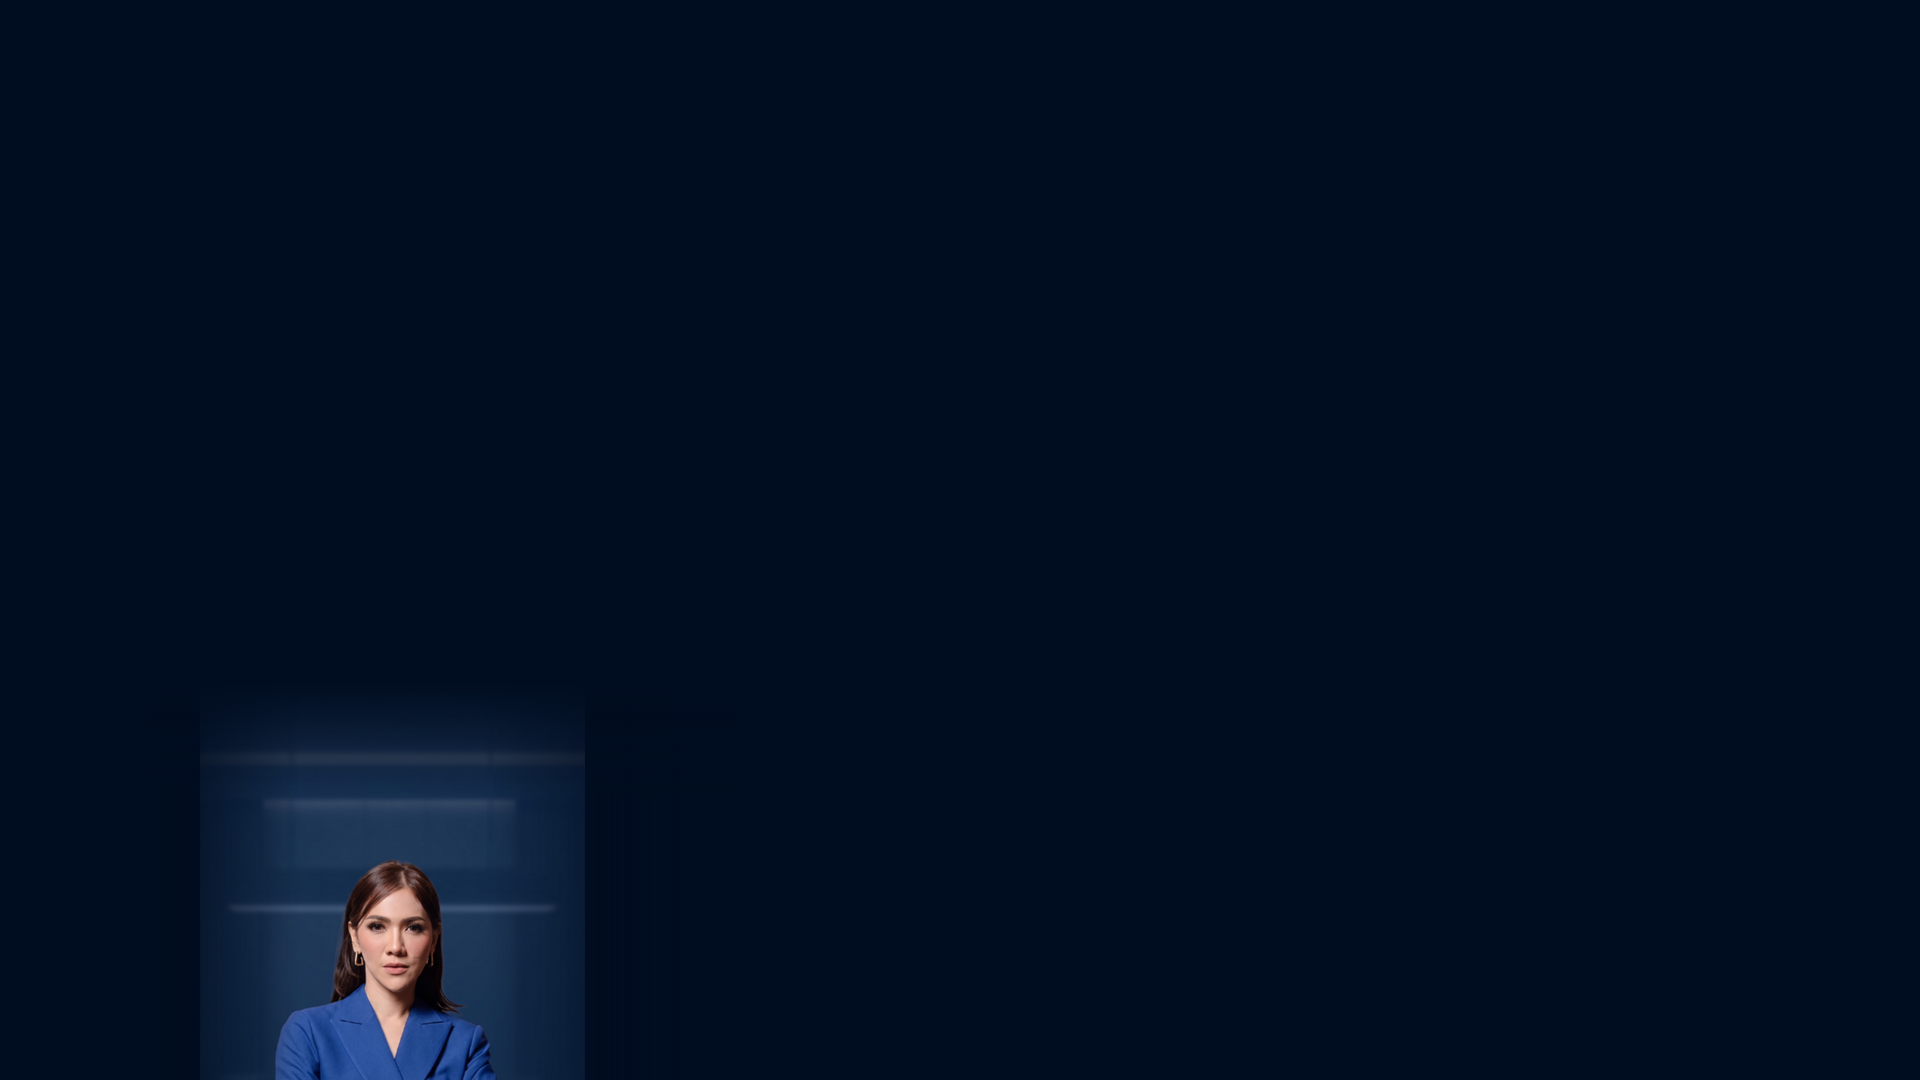
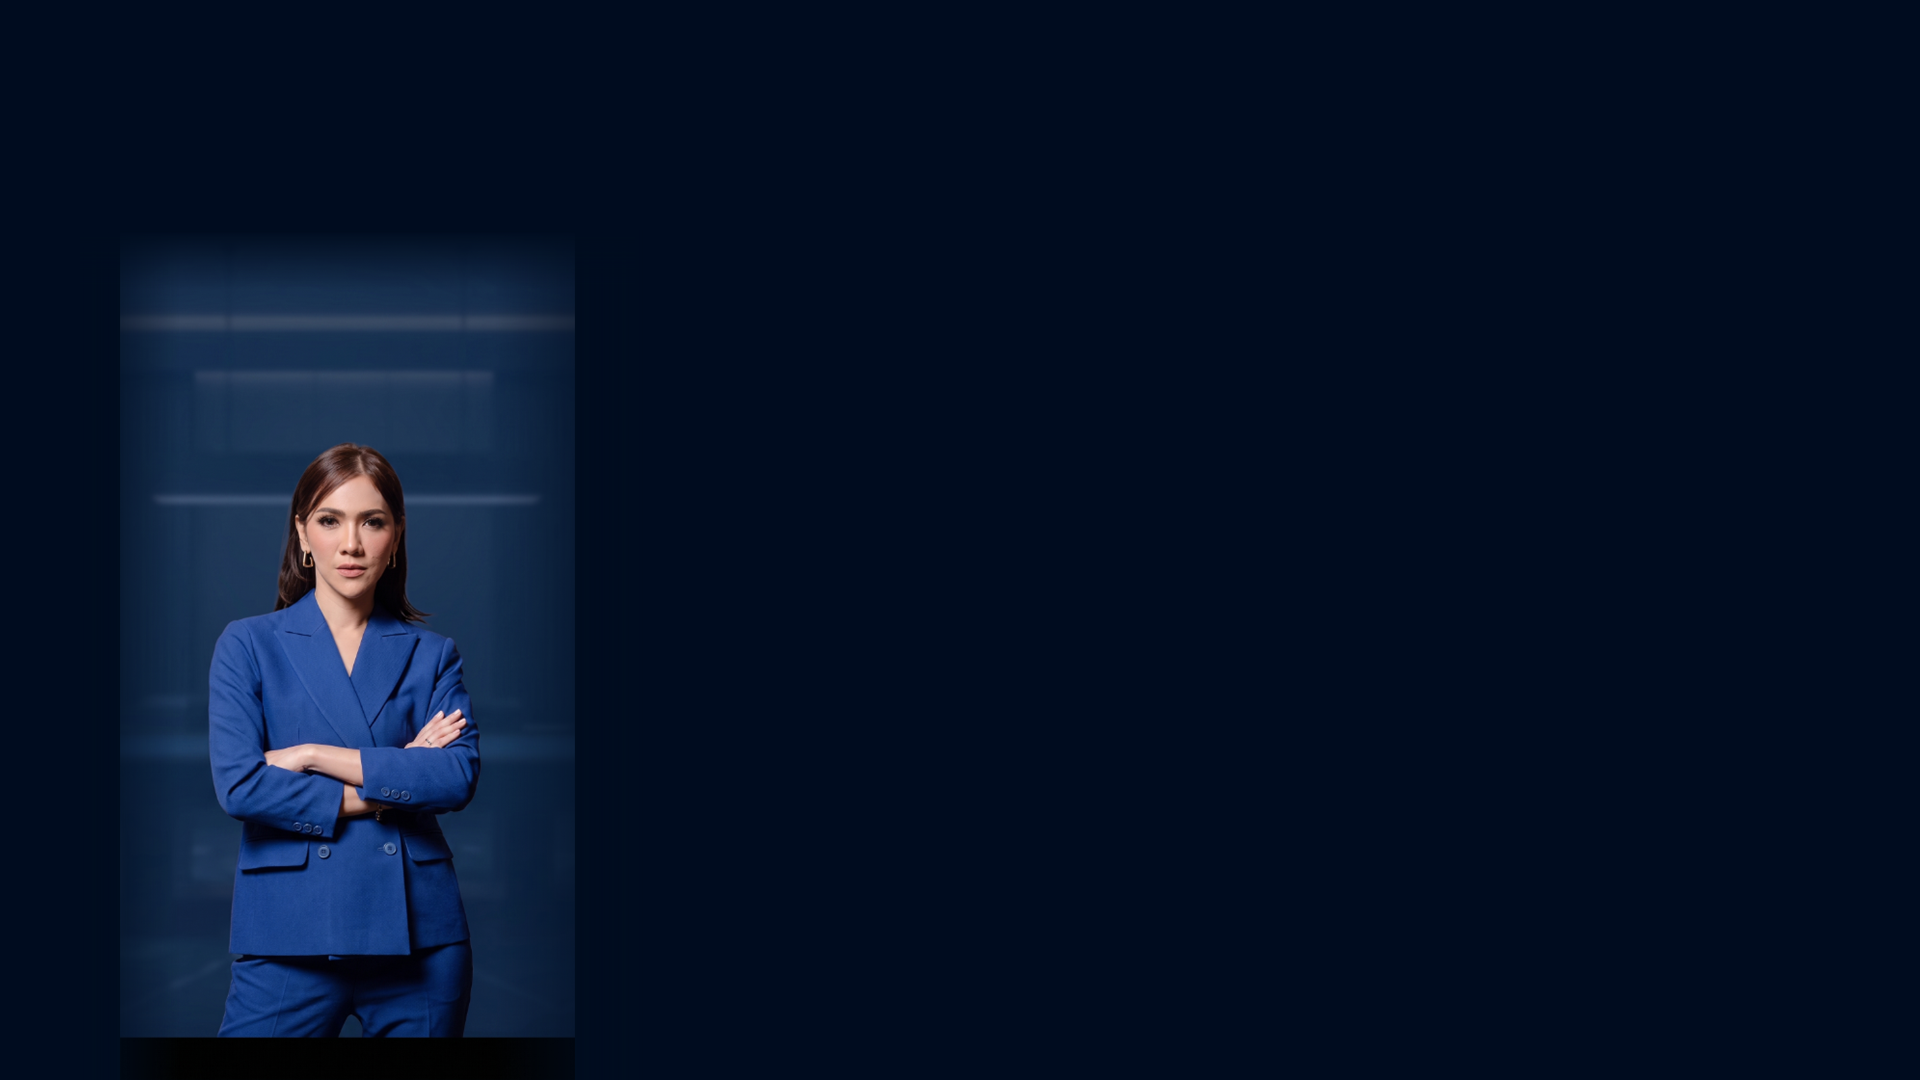
Update hero image: re-compose with optimal left positioning and vertical alignment, add HTML cache buster

Changed region(s): [[0.0625, 0.2444, 0.3125, 1.0]]

diff --git a/index.html b/index.html
@@ -154,7 +154,7 @@
   <main id="scrollytelling-container">
 
     <!-- SECTION 1 – HERO -->
-    <section id="hero" class="min-h-screen relative flex items-center justify-center overflow-hidden bg-cover bg-left" style="background-image: url('assets/images/hero_anggy.png');" aria-labelledby="hero-title">
+    <section id="hero" class="min-h-screen relative flex items-center justify-center overflow-hidden bg-cover bg-left" style="background-image: url('assets/images/hero_anggy.png?v=2.0');" aria-labelledby="hero-title">
       <!-- Dark Overlay -->
       <div class="absolute inset-0 bg-black/50 z-10 hero-gradient"></div>
 